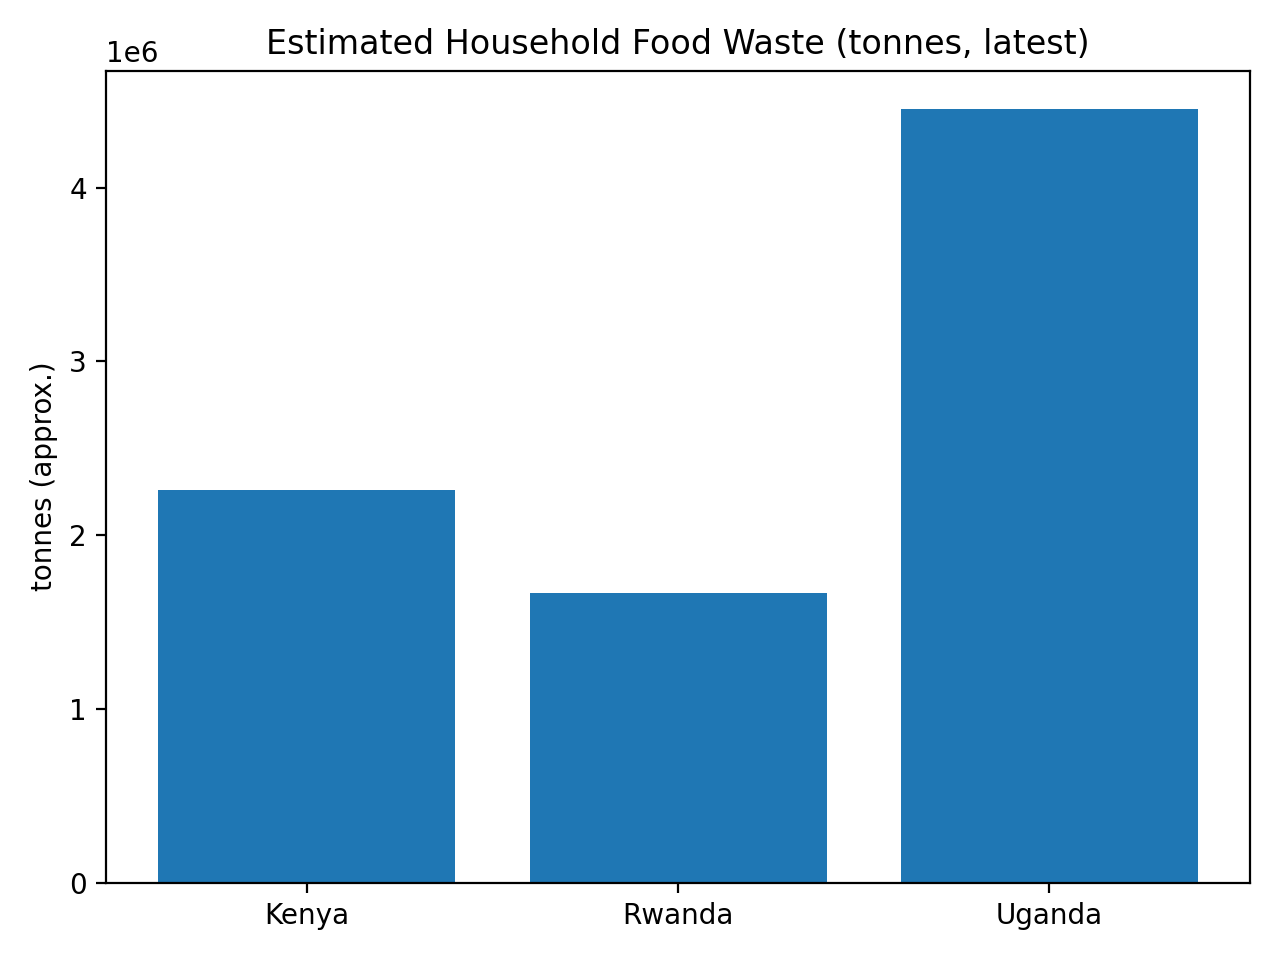
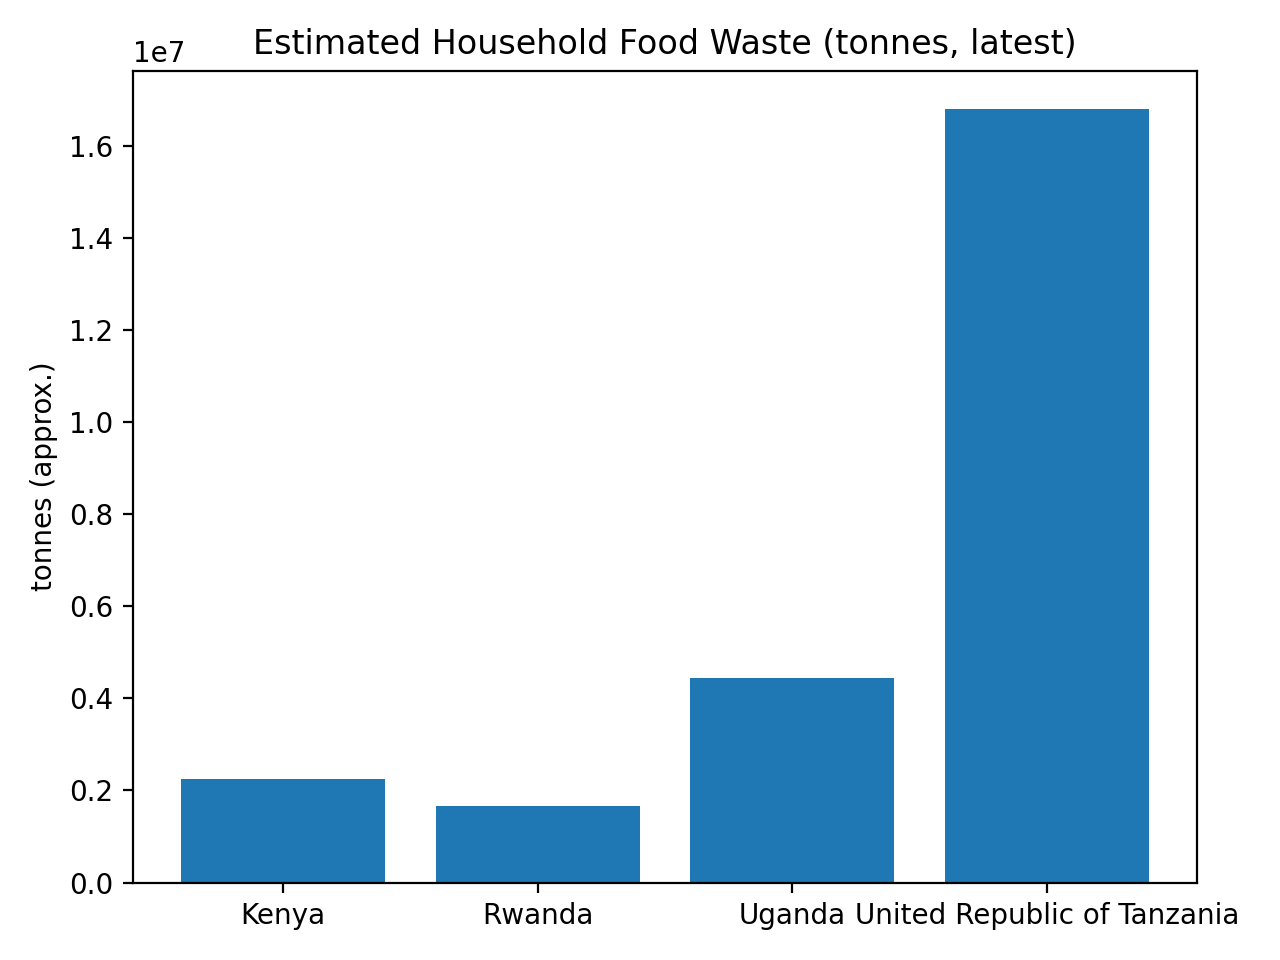
Anchor A: wire UNEP FWI + FAOSTAT FLI + population; charts and 1-page PDF

diff --git a/reports/anchor_a_brief.md b/reports/anchor_a_brief.md
@@ -50,7 +50,7 @@ World Bank WDI (CSV bundles):
 
 ---
 
-## 12.3 Alignment (New)
+## 12.3 Alignment 
 
 **What we added today.** Household food-waste signals from the **UNEP Food Waste Index 2024** (city/district studies), plus an optional conversion to national **tonnes** using WDI population. These are **context** datapoints to complement POU/CPI; they are not nationally representative and should be read with care.
 
@@ -85,8 +85,6 @@ Using **WDI population (SP.POP.TOTL)**, the notebook computes `tonnes_est = kg_p
 | **Rwanda** | 2023 | **1,668,018 t** (~**1.67 Mt**) |
 | **Uganda** | 2021 | **4,451,343 t** (~**4.45 Mt**) |
 | **Tanzania** | 2023 | **1.679724e+07** |
-
-\*Tanzania shows **TBD** because the population join used **Country Name** and your FWI table lists *United Republic of Tanzania*. After switching the join to **Country Code (TZA)**, the figure will populate. As orientation only: using the **latest** datapoint (245 kg/cap) yields a **~tens-of-millions-of-tonnes** estimate; using the **conservative median** (128 kg/cap) yields a **single-digit-millions** estimate. We will report the exact number once the code fix is applied.
 
 **Implications.** Pairing these **FWI** signals with **POU/CPI** strengthens the case for targeted **waste-to-access** pilots (e.g., routing “imperfect” produce to low-income markets and MSMEs). Where the latest datapoint is an outlier (e.g., Tanzania), use the **conservative median** for planning and present both values transparently.
 
